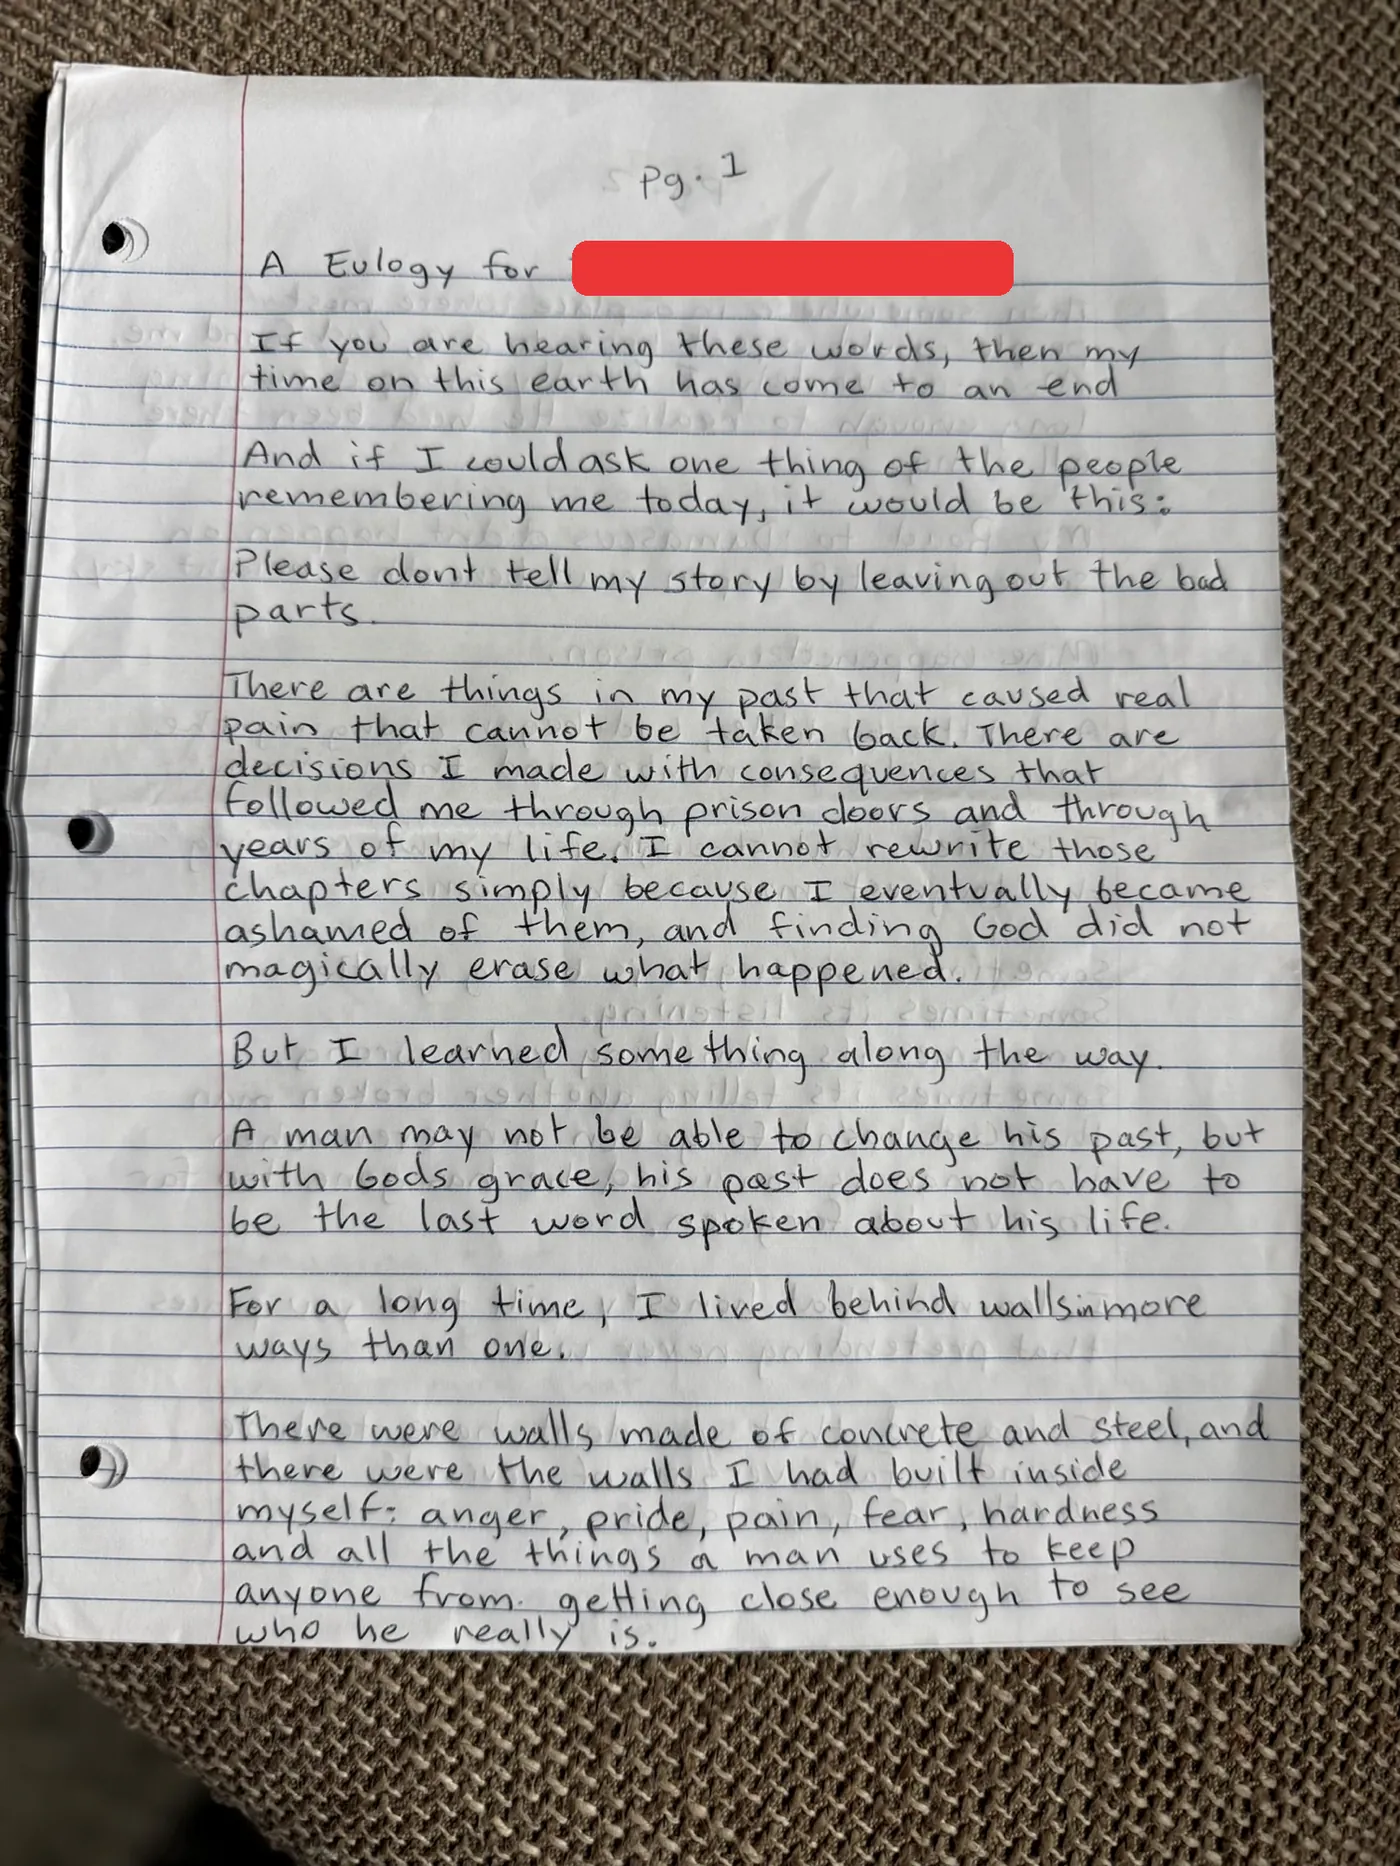
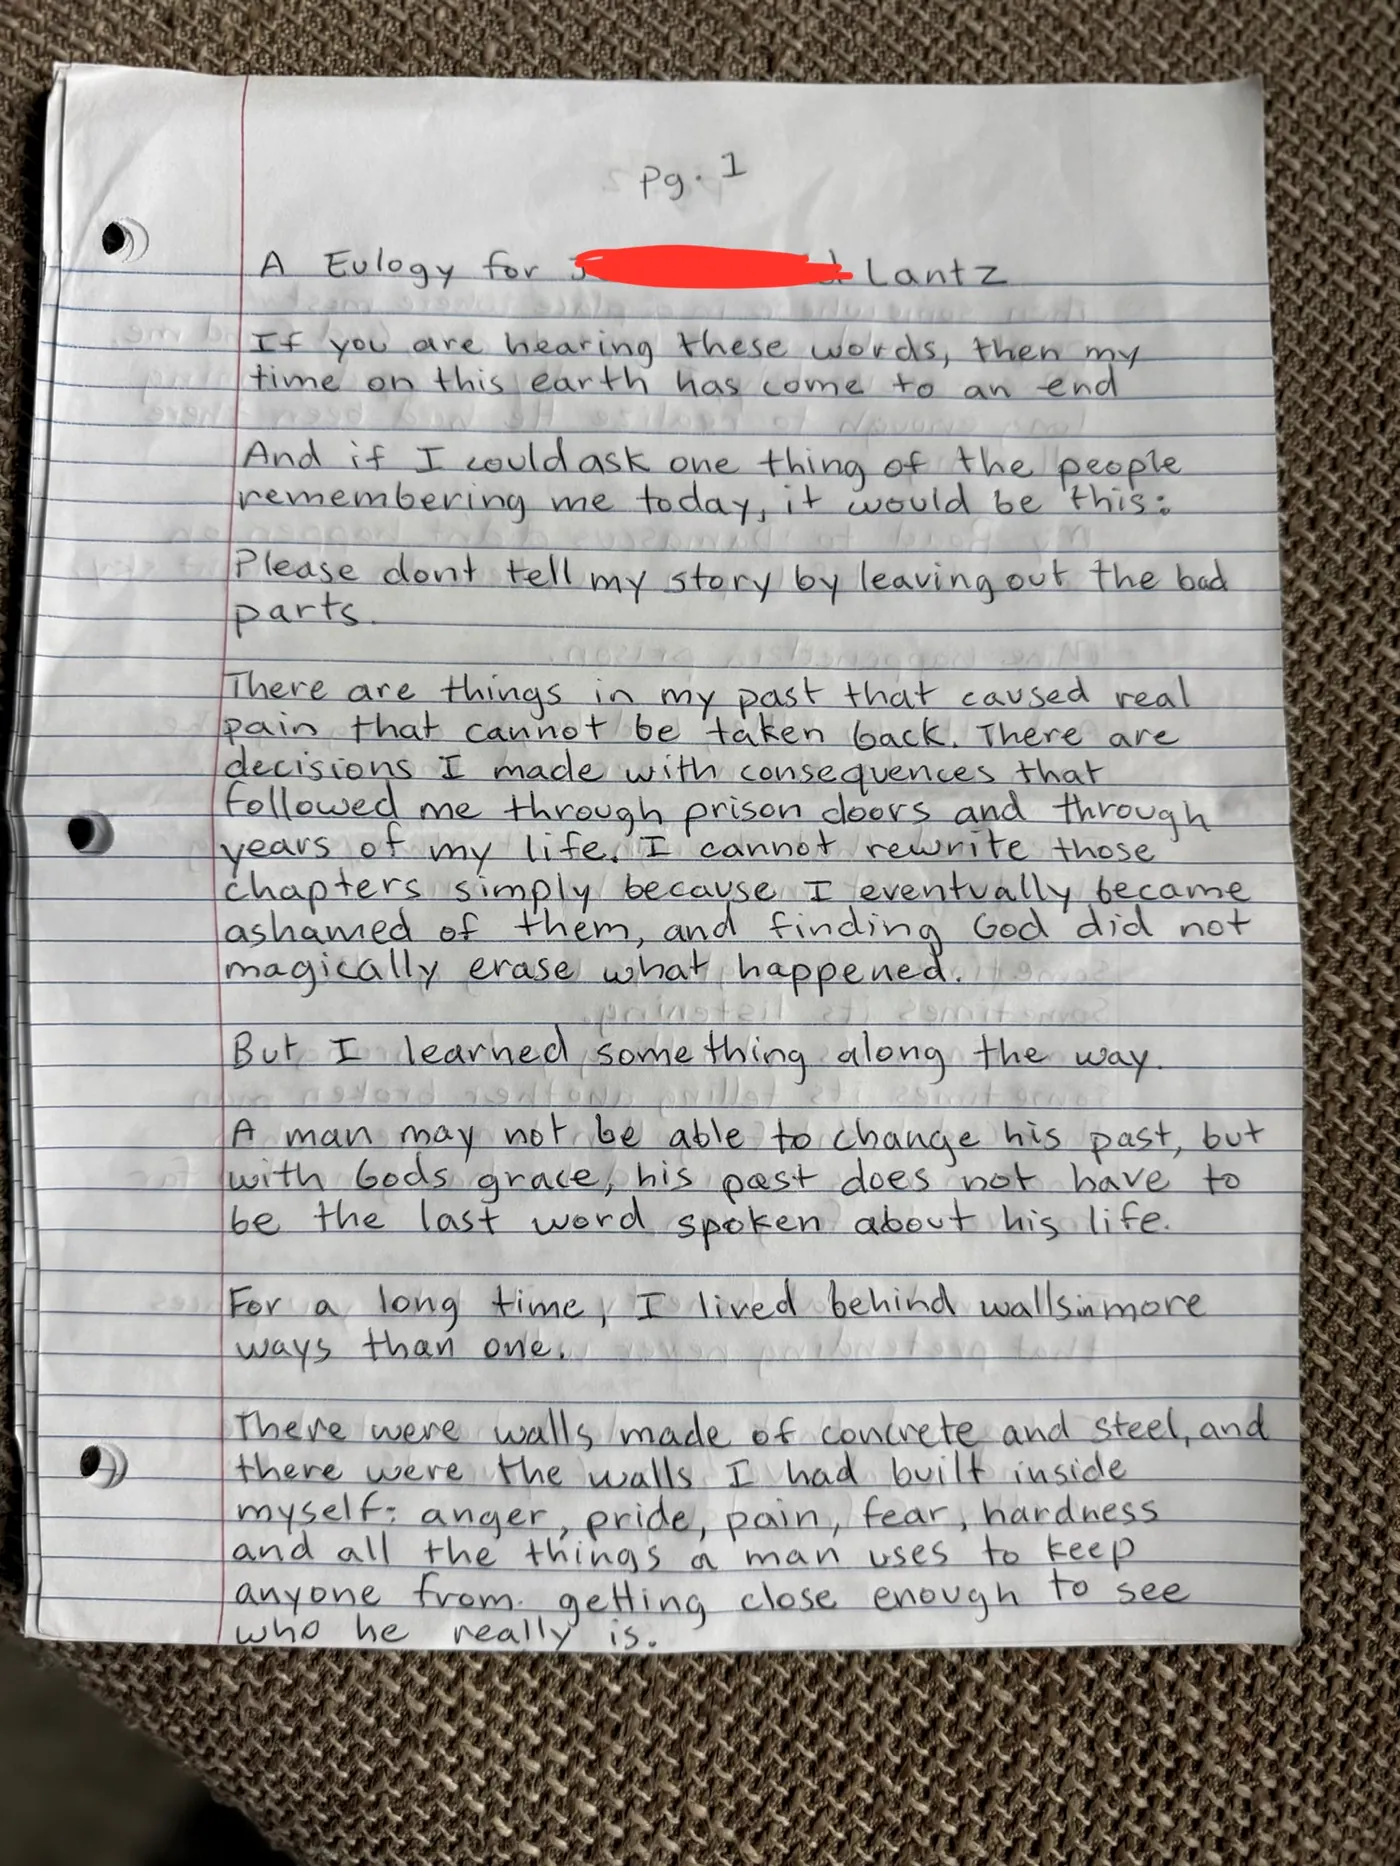
Testimony page: restore Lantz, remove sowing CTA, update middle-cross statement

Changed region(s): [[0.3993, 0.1243, 0.7371, 0.1865]]

diff --git a/testimony.html b/testimony.html
@@ -65,8 +65,8 @@
             <h2 class="h-section" id="ctx-title">His story, shared at his request.</h2>
             <p>In the Road to Damascus Program, one of the assignments we give our students is to write their own eulogy &mdash; the words they would want spoken over their life. This is one of them.</p>
             <p>The man who wrote it is serving two life sentences. When we first met him at the beginning of this year, he was a man filled with violence &mdash; still crippled by pain, anger, and a deep desire to hurt. What you're about to read is what God has done since.</p>
-            <p>To protect him, we've withheld his name. But he didn't just give us permission to share this &mdash; he asked us to share it with as many people as possible. He believes that every time his story is told, he gets to leave prison in the spirit.</p>
-            <p class="eul-credit">Our program didn't do this. Our teaching didn't do this. Our wisdom didn't do this. This transformation happened for one reason, and one reason only: the sacrifice of the man on the middle cross &mdash; Jesus Christ.</p>
+            <p>To protect him, we've withheld his first name. But he didn't just give us permission to share this &mdash; he asked us to share it with as many people as possible. He believes that every time his story is told, he gets to leave prison in the spirit.</p>
+            <p class="eul-credit">Our program didn't do this. Our teaching didn't do this. Our wisdom didn't do this. This transformation only happened because of the sacrifice of the man on the middle cross, Jesus Christ.</p>
           </div>
         </div>
       </section>
@@ -130,10 +130,10 @@
           <div class="eul-transcript">
             <p class="eyebrow">Transcription</p>
             <h2 class="h-section" id="tr-title">In his words.</h2>
-            <p class="muted mt-8">Typed exactly as written, with light punctuation for readability. His name has been withheld.</p>
+            <p class="muted mt-8">Typed exactly as written, with light punctuation for readability. His first name has been withheld.</p>
             <div class="t-page">
               <p class="t-num">Page 1</p>
-<p class="t-title">A Eulogy for <span class="t-redact">[name withheld]</span></p>
+<p class="t-title">A Eulogy for <span class="t-redact">[first name withheld]</span> Lantz</p>
 <p>If you are hearing these words, then my time on this earth has come to an end.</p>
 <p>And if I could ask one thing of the people remembering me today, it would be this:</p>
 <p>Please don't tell my story by leaving out the bad parts.</p>
@@ -242,7 +242,7 @@
 <p>And if my Road to Damascus ends here&hellip;</p>
 <p>Then I leave, know this&hellip;</p>
 <p class="t-close">The Road was worth walking.</p>
-<p class="t-sign">&mdash; RTD Program student, 2026</p>
+<p class="t-sign">&mdash; Lantz, 2026</p>
             </div>
           </div>
         </div>
@@ -250,12 +250,11 @@
 
       <section class="cta-band">
         <div class="cta-band__inner">
-          <p class="eyebrow eyebrow--center">Keep his testimony working</p>
-          <h2 class="h-section">Share it. Then help us reach the next man.</h2>
-          <p class="muted mt-8" style="max-width:52ch;margin-inline:auto">Every share lets him walk out of prison in the spirit one more time. Every seed sown puts the RTD Program in front of another man who thinks he's too far gone.</p>
+          <p class="eyebrow eyebrow--center">At his request</p>
+          <h2 class="h-section">Share his story.</h2>
+          <p class="muted mt-8" style="max-width:52ch;margin-inline:auto">He asked for this to be shared with as many people as possible. Every time it's shared, he gets to walk out of prison in the spirit one more time.</p>
           <div class="btn-row mt-10" style="justify-content: center">
             <button class="btn btn--gold btn--lg" type="button" data-share>Share His Story</button>
-            <a class="btn btn--outline btn--lg" href="./sow.html">Sow a Seed</a>
           </div>
         </div>
       </section>

diff --git a/_testimony_body.py b/_testimony_body.py
@@ -1,6 +1,6 @@
 PAGES = [
 # 1
-"""<p class="t-title">A Eulogy for <span class="t-redact">[name withheld]</span></p>
+"""<p class="t-title">A Eulogy for <span class="t-redact">[first name withheld]</span> Lantz</p>
 <p>If you are hearing these words, then my time on this earth has come to an end.</p>
 <p>And if I could ask one thing of the people remembering me today, it would be this:</p>
 <p>Please don't tell my story by leaving out the bad parts.</p>
@@ -93,7 +93,7 @@ PAGES = [
 <p>And if my Road to Damascus ends here&hellip;</p>
 <p>Then I leave, know this&hellip;</p>
 <p class="t-close">The Road was worth walking.</p>
-<p class="t-sign">&mdash; RTD Program student, 2026</p>""",
+<p class="t-sign">&mdash; Lantz, 2026</p>""",
 ]
 
 def slides():
@@ -131,8 +131,8 @@ def body(GIVING):
             <h2 class="h-section" id="ctx-title">His story, shared at his request.</h2>
             <p>In the Road to Damascus Program, one of the assignments we give our students is to write their own eulogy &mdash; the words they would want spoken over their life. This is one of them.</p>
             <p>The man who wrote it is serving two life sentences. When we first met him at the beginning of this year, he was a man filled with violence &mdash; still crippled by pain, anger, and a deep desire to hurt. What you're about to read is what God has done since.</p>
-            <p>To protect him, we've withheld his name. But he didn't just give us permission to share this &mdash; he asked us to share it with as many people as possible. He believes that every time his story is told, he gets to leave prison in the spirit.</p>
-            <p class="eul-credit">Our program didn't do this. Our teaching didn't do this. Our wisdom didn't do this. This transformation happened for one reason, and one reason only: the sacrifice of the man on the middle cross &mdash; Jesus Christ.</p>
+            <p>To protect him, we've withheld his first name. But he didn't just give us permission to share this &mdash; he asked us to share it with as many people as possible. He believes that every time his story is told, he gets to leave prison in the spirit.</p>
+            <p class="eul-credit">Our program didn't do this. Our teaching didn't do this. Our wisdom didn't do this. This transformation only happened because of the sacrifice of the man on the middle cross, Jesus Christ.</p>
           </div>
         </div>
       </section>
@@ -161,7 +161,7 @@ def body(GIVING):
           <div class="eul-transcript">
             <p class="eyebrow">Transcription</p>
             <h2 class="h-section" id="tr-title">In his words.</h2>
-            <p class="muted mt-8">Typed exactly as written, with light punctuation for readability. His name has been withheld.</p>
+            <p class="muted mt-8">Typed exactly as written, with light punctuation for readability. His first name has been withheld.</p>
 {transcript()}
           </div>
         </div>
@@ -169,12 +169,11 @@ def body(GIVING):
 
       <section class="cta-band">
         <div class="cta-band__inner">
-          <p class="eyebrow eyebrow--center">Keep his testimony working</p>
-          <h2 class="h-section">Share it. Then help us reach the next man.</h2>
-          <p class="muted mt-8" style="max-width:52ch;margin-inline:auto">Every share lets him walk out of prison in the spirit one more time. Every seed sown puts the RTD Program in front of another man who thinks he's too far gone.</p>
+          <p class="eyebrow eyebrow--center">At his request</p>
+          <h2 class="h-section">Share his story.</h2>
+          <p class="muted mt-8" style="max-width:52ch;margin-inline:auto">He asked for this to be shared with as many people as possible. Every time it's shared, he gets to walk out of prison in the spirit one more time.</p>
           <div class="btn-row mt-10" style="justify-content: center">
             <button class="btn btn--gold btn--lg" type="button" data-share>Share His Story</button>
-            <a class="btn btn--outline btn--lg" href="./sow.html">Sow a Seed</a>
           </div>
         </div>
       </section>
